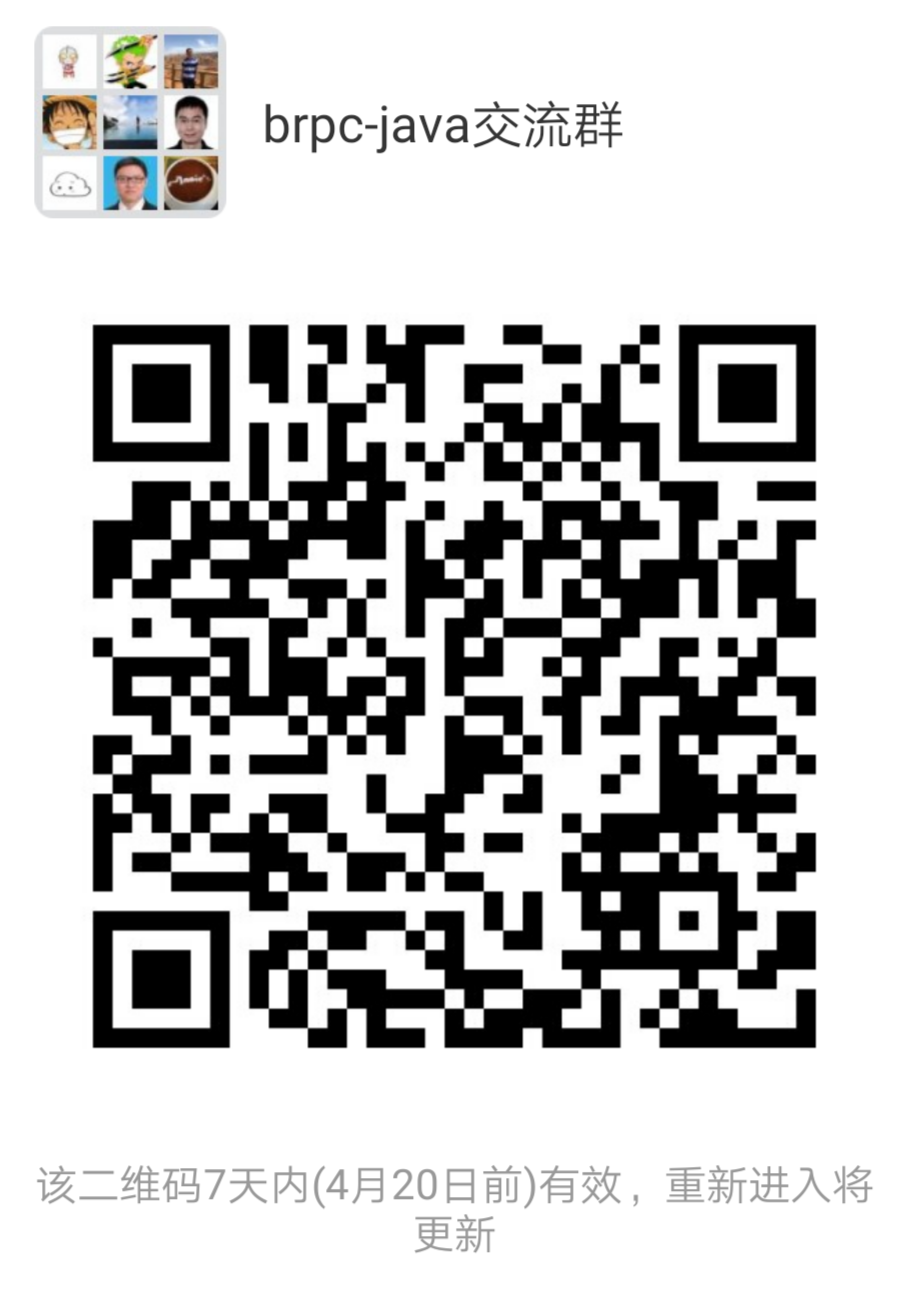
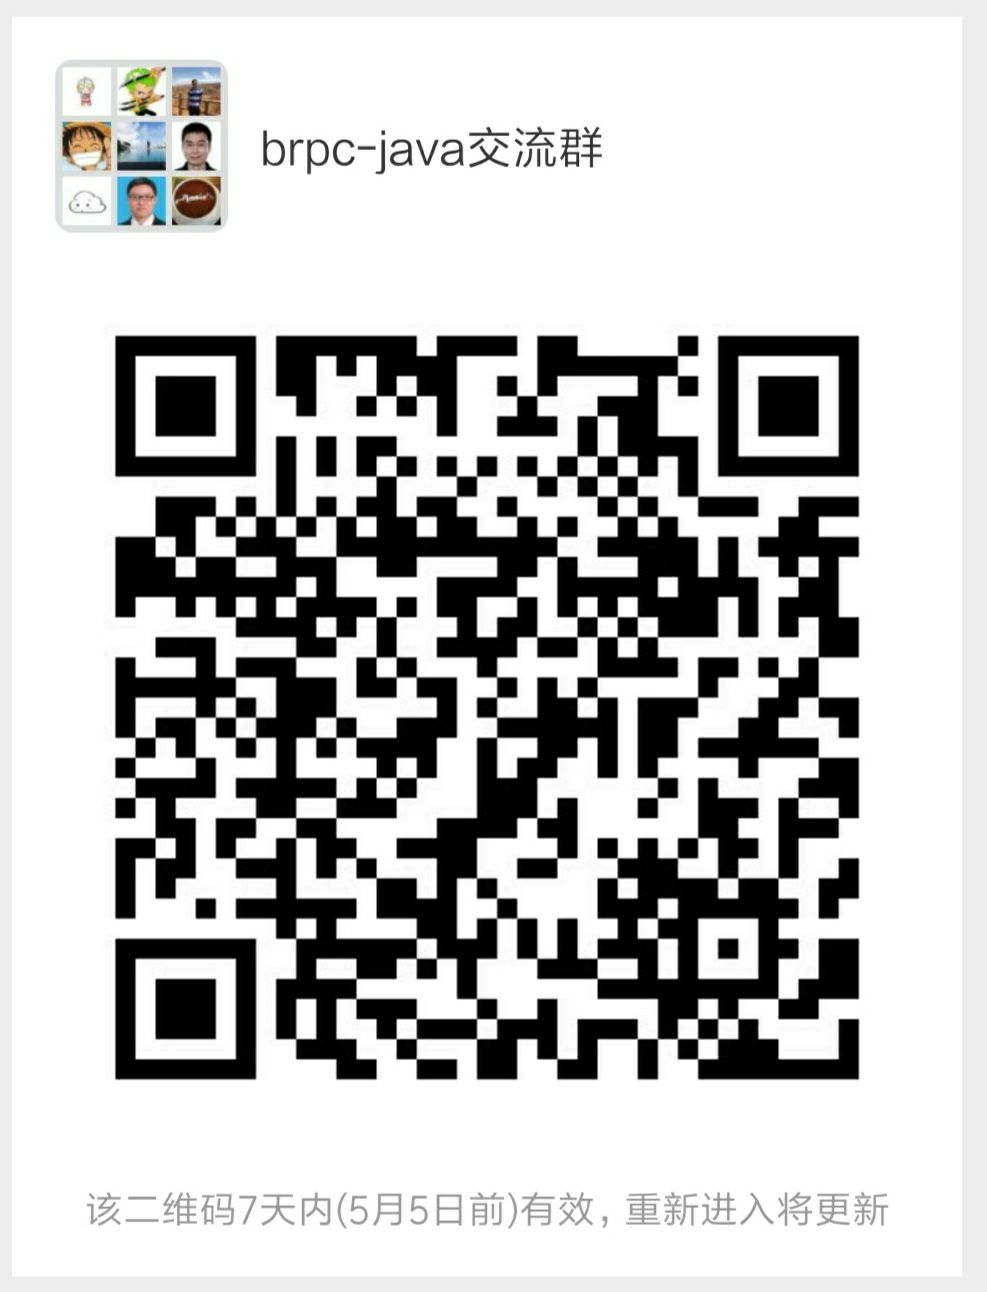
update weixin_qrcode fixed GsonUtils DateFormat

diff --git a/brpc-java-core/src/test/java/com/baidu/brpc/utils/GsonUtilsTest.java b/brpc-java-core/src/test/java/com/baidu/brpc/utils/GsonUtilsTest.java
@@ -1,0 +1,28 @@
+package com.baidu.brpc.utils;
+
+
+import java.util.Date;
+
+import org.junit.Assert;
+import org.junit.Test;
+
+import com.google.gson.reflect.TypeToken;
+
+public class GsonUtilsTest {
+
+    @Test
+    public void fromJson() {
+        Date date = new Date();
+        Date d1 = GsonUtils.fromJson(GsonUtils.toJson(date), new TypeToken<Date>(){}.getType());
+        Date d2 = GsonUtils.fromJson(GsonUtils.toJson(date), new TypeToken<java.sql.Date>(){}.getType());
+
+        date = new java.sql.Date(System.currentTimeMillis());
+        d1 = GsonUtils.fromJson(GsonUtils.toJson(date), new TypeToken<Date>(){}.getType());
+        d2 = GsonUtils.fromJson(GsonUtils.toJson(date), new TypeToken<java.sql.Date>(){}.getType());
+
+        java.sql.Date sDate = new java.sql.Date(System.currentTimeMillis());
+        java.sql.Date d3 = GsonUtils.fromJson(GsonUtils.toJson(date), new TypeToken<java.sql.Date>(){}.getType());
+
+
+    }
+}

diff --git a/brpc-java-core/src/main/java/com/baidu/brpc/utils/GsonUtils.java b/brpc-java-core/src/main/java/com/baidu/brpc/utils/GsonUtils.java
@@ -12,7 +12,7 @@ public class GsonUtils {
     private static Gson gson;
 
     static {
-        gson = getGB().create();
+        gson = getGB().setDateFormat("yyyy-MM-dd HH:mm:ss").create();
     }
 
     private static GsonBuilder getGB() {
